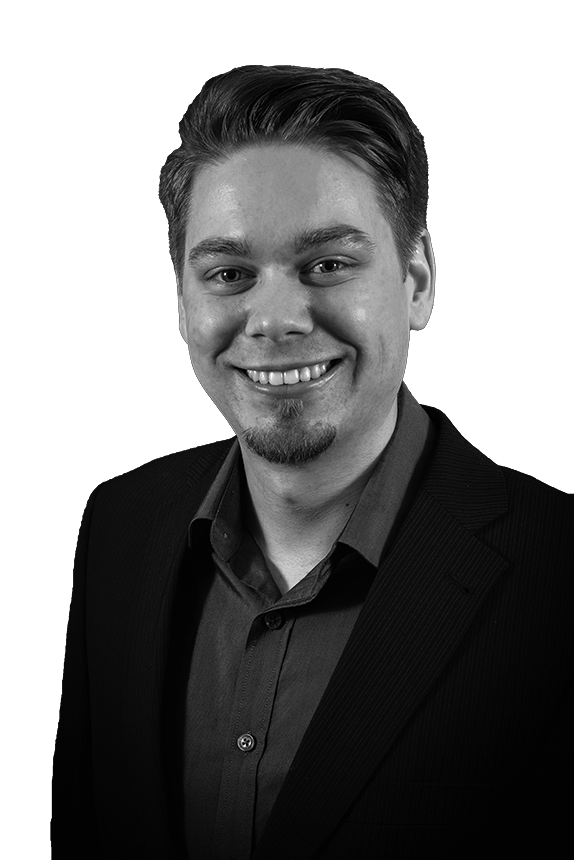
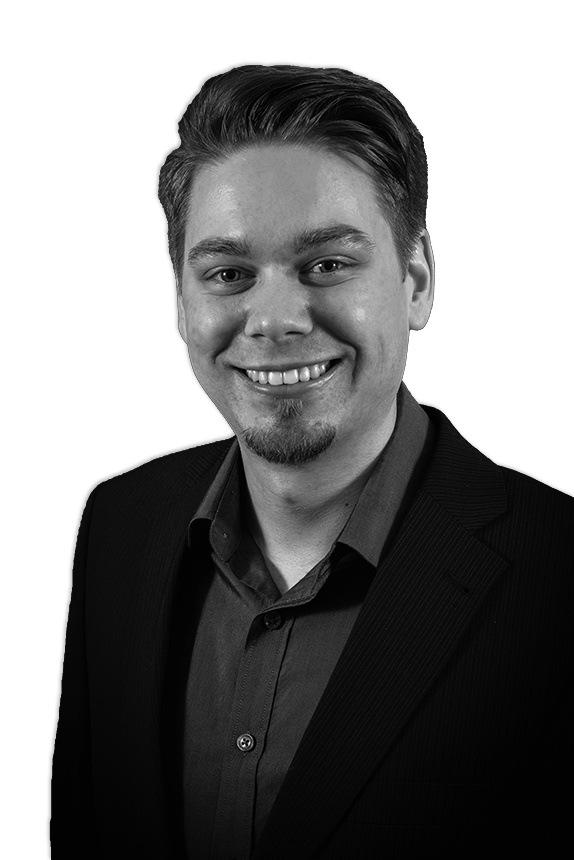
🎨 Home >> Redesigned in the back. Also fixed the photo.

diff --git a/src/pages/index.vue b/src/pages/index.vue
@@ -1,18 +1,20 @@
 <template>
-	<div class="relative lg:min-h-[100vh] flex flex-col lg:flex-row lg:items-center mx-auto max-w-screen-xl gap-4">
-		<div class="w-full lg:w-1/2 flex justify-center self-end">
-			<img src="~/assets/img/borsti_bw.png" height="860" :alt="`Photo of ${name}`" class="w-full h-auto object-cover rounded-lg" loading="lazy">
+	<figure class="relative lg:min-h-[100vh] flex flex-col lg:flex-row lg:items-center mx-auto max-w-screen-xl gap-4">
+		<div class="w-full lg:w-1/2 flex justify-center self-end drop-shadow-lg">
+			<img src="~/assets/img/borsti_bw.png" height="860" :alt="`Photo of ${name}`" class="w-full h-auto object-cover rounded-lg drop-shadow-lg" loading="lazy">
 		</div>
-		<div class="w-full lg:w-1/2">
+		<figcaption class="w-full lg:w-1/2">
 			<!-- Dividing line on smaller device -->
 			<div class="border-t lg:border-t-0 border-gray-400 dark:border-gray-500 pt-6 lg:pt-0" />
 			<!-- Text -->
-			<p class="text-primary-light dark:text-primary font-montserrat font-bold my-5 text-lg lg:text-xl xl:text-2xl leading-tight uppercase">{{ introduction }}</p>
-			<h1 class="text-gray-900 dark:text-white border-l-2 border-primary drop-shadow-md font-roboto text-6xl lg:text-7xl xl:text-8xl leading-none pl-6">{{ name }}</h1>
-			<p class="text-gray-900 dark:text-white font-montserrat font-bold my-10 text-xl lg:text-2xl xl:text-3xl leading-tight">{{ underline }}</p>
-			<p class="text-gray-800 dark:text-gray-200 font-montserrat text-base md:text-md leading-relaxed max-w-prose mb-4">{{ description }}</p>
-		</div>
-	</div>
+			<blockquote>
+				<p class="text-primary-light dark:text-primary font-montserrat font-bold my-5 text-lg lg:text-xl xl:text-2xl leading-tight uppercase">{{ introduction }}</p>
+				<h1 class="text-gray-900 dark:text-white border-l-2 border-primary drop-shadow-md font-roboto text-6xl lg:text-7xl xl:text-8xl leading-none pl-6">{{ name }}</h1>
+				<p class="text-gray-900 dark:text-white font-montserrat font-bold my-10 text-xl lg:text-2xl xl:text-3xl leading-tight">{{ underline }}</p>
+				<p class="text-gray-900 dark:text-white font-montserrat text-base md:text-md leading-relaxed max-w-prose mb-4 p-2 backdrop-blur-md bg-white/10 dark:bg-white/10">{{ description }}</p>
+			</blockquote>
+		</figcaption>
+	</figure>
 </template>
 
 <script setup>
